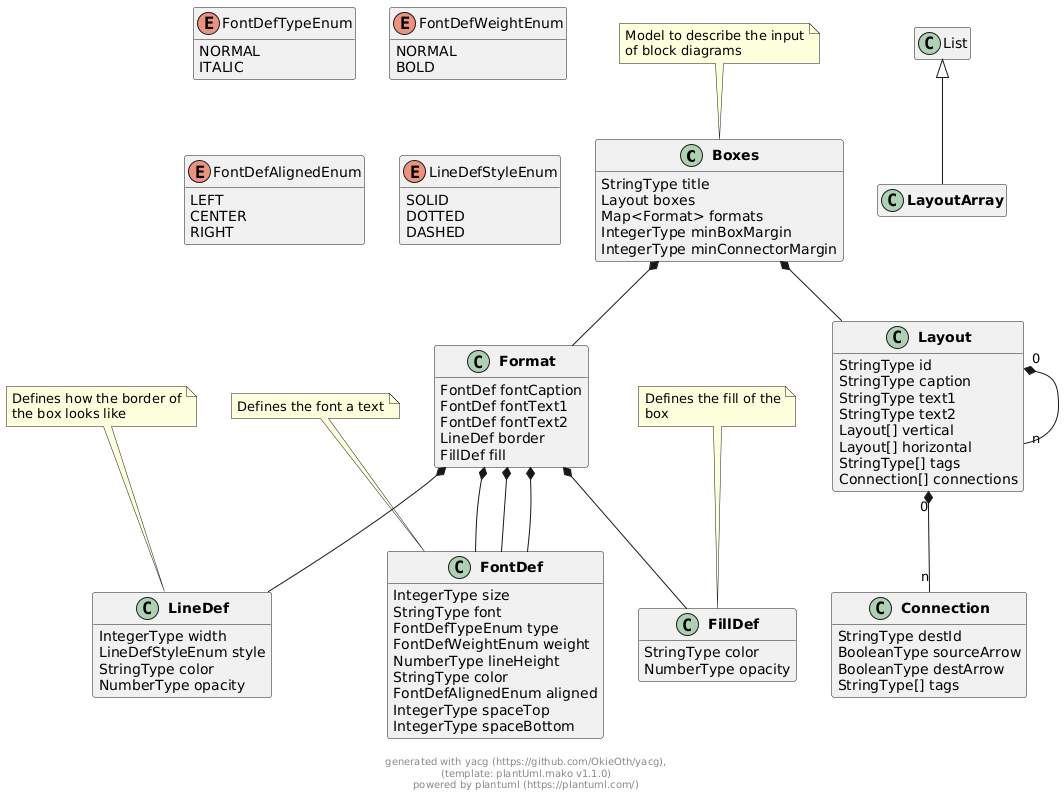
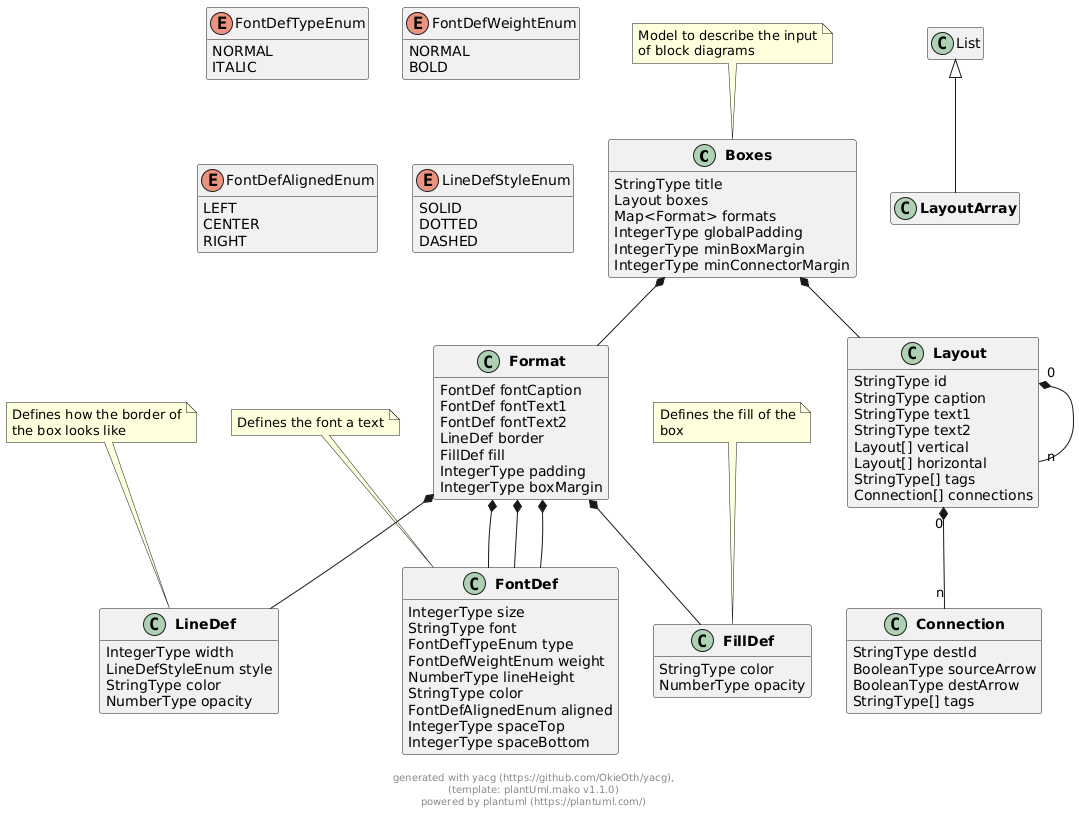
fix tests

diff --git a/pkg/types/boxesdocfactoryfuncs.go b/pkg/types/boxesdocfactoryfuncs.go
@@ -6,7 +6,7 @@ type TextDimensionCalculator interface {
 	Text2Dimensions(txt string) (width, height int)
 }
 
-func (l *LayoutElement) initVertical(c TextDimensionCalculator, yInnerOffset int) {
+func (l *LayoutElement) initVertical(c TextDimensionCalculator, yInnerOffset, defaultPadding, defaultBoxMargin int) {
 	if len(l.Vertical) > 0 {
 		curX := l.X
 		curY := l.Y + yInnerOffset
@@ -14,51 +14,51 @@ func (l *LayoutElement) initVertical(c TextDimensionCalculator, yInnerOffset int
 		for i := 0; i < len(l.Vertical); i++ {
 			sub := &l.Vertical[i]
 			if h > 0 {
-				h += GlobalMinBoxMargin
+				h += defaultBoxMargin
 			}
 			sub.X = curX
 			sub.Y = curY
-			sub.InitDimensions(c)
-			curY += (sub.Height + GlobalMinBoxMargin)
+			sub.InitDimensions(c, defaultPadding, defaultBoxMargin)
+			curY += (sub.Height + defaultBoxMargin)
 			h += sub.Height
 			if sub.Width > w {
 				w = sub.Width
 			}
 		}
-		l.Height += h + GlobalPadding
+		l.Height += h + defaultPadding
 		if w > l.Width {
 			l.Width = w
 		}
 	}
 }
 
-func (l *LayoutElement) initHorizontal(c TextDimensionCalculator, yInnerOffset int) {
+func (l *LayoutElement) initHorizontal(c TextDimensionCalculator, yInnerOffset, defaultPadding, defaultBoxMargin int) {
 	if len(l.Horizontal) > 0 {
-		curX := l.X + GlobalPadding
+		curX := l.X + defaultPadding
 		curY := l.Y + yInnerOffset
 		var h, w int
 		for i := 0; i < len(l.Horizontal); i++ {
 			sub := &l.Horizontal[i]
 			if w > 0 {
-				w += GlobalMinBoxMargin
+				w += defaultBoxMargin
 			}
 			sub.X = curX
 			sub.Y = curY
-			sub.InitDimensions(c)
-			curX += (sub.Width + GlobalMinBoxMargin)
+			sub.InitDimensions(c, defaultPadding, defaultBoxMargin)
+			curX += (sub.Width + defaultBoxMargin)
 			w += sub.Width
 			if sub.Height > h {
 				h = sub.Height
 			}
 		}
-		l.Height += h + GlobalPadding
+		l.Height += h + defaultPadding
 		if l.Width < w {
 			l.Width = w
 		}
 	}
 }
 
-func (l *LayoutElement) InitDimensions(c TextDimensionCalculator) {
+func (l *LayoutElement) InitDimensions(c TextDimensionCalculator, defaultPadding, defaultBoxMargin int) {
 	var cW, cH, t1W, t1H, t2W, t2H int
 	var yCaptionOffset, yText1Offset, yText2Offset, yInnerOffset int
 	if l.Caption != "" || l.Text1 != "" || l.Text2 != "" {
@@ -81,6 +81,6 @@ func (l *LayoutElement) InitDimensions(c TextDimensionCalculator) {
 		yInnerOffset = l.Format.Padding + max(yCaptionOffset, max(yText1Offset, yText2Offset))
 		l.Width = max(cW, max(t1W, t2W)) + (2 * l.Format.Padding)
 	}
-	l.initVertical(c, yInnerOffset)
-	l.initHorizontal(c, yInnerOffset)
+	l.initVertical(c, yInnerOffset, defaultPadding, defaultBoxMargin)
+	l.initHorizontal(c, yInnerOffset, defaultPadding, defaultBoxMargin)
 }

diff --git a/pkg/types/boxexdocfactory_test.go b/pkg/types/boxexdocfactory_test.go
@@ -7,33 +7,6 @@ import (
 )
 
 func TestInitLayoutElement(t *testing.T) {
-	bf := types.BoxFormat{
-		Padding: 5,
-		FontCaption: types.FontDef{
-			Size:       10,
-			Type:       &types.ExpFontDefTypeEnum_normal,
-			Weight:     &types.ExpFontDefWeightEnum_normal,
-			LineHeight: 1.5,
-			Color:      "black",
-			Aligned:    &types.ExpFontDefAlignedEnum_left,
-		},
-		FontText1: types.FontDef{
-			Size:       10,
-			Type:       &types.ExpFontDefTypeEnum_normal,
-			Weight:     &types.ExpFontDefWeightEnum_normal,
-			LineHeight: 1.5,
-			Color:      "black",
-			Aligned:    &types.ExpFontDefAlignedEnum_left,
-		},
-		FontText2: types.FontDef{
-			Size:       10,
-			Type:       &types.ExpFontDefTypeEnum_normal,
-			Weight:     &types.ExpFontDefWeightEnum_normal,
-			LineHeight: 1.5,
-			Color:      "black",
-			Aligned:    &types.ExpFontDefAlignedEnum_left,
-		},
-	}
 	bf2 := types.BoxFormat{
 		Padding: 0,
 		FontCaption: types.FontDef{
@@ -75,7 +48,7 @@ func TestInitLayoutElement(t *testing.T) {
 			inputFormats: map[string]types.BoxFormat{},
 			expected: types.LayoutElement{
 				Id:     "test1",
-				Format: &bf,
+				Format: nil,
 			},
 		},
 		{
@@ -123,6 +96,12 @@ func TestInitLayoutElement(t *testing.T) {
 			}
 			if result.Text2 != tt.expected.Text2 {
 				t.Errorf("expected Text2 %v, got %v", tt.expected.Text2, result.Text2)
+			}
+			if (result.Format == nil && tt.expected.Format != nil) || (result.Format != nil && tt.expected.Format == nil) {
+				t.Errorf("expected Format %v, got %v", tt.expected.Format, result.Format)
+			}
+			if result.Format == nil {
+				return
 			}
 			if result.Format.Padding != tt.expected.Format.Padding {
 				t.Errorf("expected Padding %v, got %v", tt.expected.Format.Padding, result.Format.Padding)

diff --git a/pkg/types/boxesdocfactory.go b/pkg/types/boxesdocfactory.go
@@ -1,6 +1,8 @@
 package types
 
-import "fmt"
+import (
+	"fmt"
+)
 
 type BoxesDrawing interface {
 	Start(title string, height, width int) error
@@ -73,17 +75,25 @@ func initBoxFormat(f *Format) BoxFormat {
 	var fontCaption *FontDef
 	var fontText1 *FontDef
 	var fontText2 *FontDef
+	padding := GlobalPadding
+	boxMargin := GlobalMinBoxMargin
 	if f != nil {
 		fontCaption = f.FontCaption
 		fontText1 = f.FontText1
 		fontText2 = f.FontText2
 		border = f.Border
 		fill = f.Fill
+		if f.Padding != nil {
+			padding = *f.Padding
+		}
+		if f.BoxMargin != nil {
+			boxMargin = *f.BoxMargin
+		}
 	}
 
 	return BoxFormat{
-		Padding:      GlobalPadding,
-		MinBoxMargin: GlobalMinBoxMargin,
+		Padding:      padding,
+		MinBoxMargin: boxMargin,
 		FontCaption:  initFontDef(fontCaption),
 		FontText1:    initFontDef(fontText1),
 		FontText2:    initFontDef(fontText2),
@@ -149,6 +159,15 @@ func DocumentFromBoxes(b *Boxes) *BoxesDocument {
 	doc.Title = b.Title
 	doc.Formats = initFormats(b.Formats)
 	doc.Boxes = initLayoutElement(&b.Boxes, doc.Formats)
+	if doc.MinBoxMargin == 0 {
+		doc.MinBoxMargin = GlobalMinBoxMargin
+	}
+	if doc.MinConnectorMargin == 0 {
+		doc.MinConnectorMargin = GlobalMinBoxMargin
+	}
+	if doc.GlobalPadding == 0 {
+		doc.GlobalPadding = GlobalPadding
+	}
 	return doc
 }
 

diff --git a/pkg/boxesimpl/boxesimpl.go b/pkg/boxesimpl/boxesimpl.go
@@ -29,16 +29,16 @@ func DrawBoxesFromFile(inputFile, outputFile string) error {
 
 func InitialLayoutBoxes(b *types.Boxes, c types.TextDimensionCalculator) (*types.BoxesDocument, error) {
 	doc := types.DocumentFromBoxes(b)
-	doc.Boxes.X = types.GlobalPadding
-	doc.Boxes.Y = types.GlobalPadding
-	doc.Boxes.InitDimensions(c)
-	doc.Width = doc.Boxes.Width + types.GlobalPadding*2
-	doc.Height = doc.Boxes.Height + types.GlobalPadding*2
+	doc.Boxes.X = doc.GlobalPadding
+	doc.Boxes.Y = doc.GlobalPadding
+	doc.Boxes.InitDimensions(c, doc.GlobalPadding, doc.MinBoxMargin)
+	doc.Width = doc.Boxes.Width + doc.GlobalPadding*2
+	doc.Height = doc.Boxes.Height + doc.GlobalPadding*2
 	if doc.Title != "" {
 		w, h := c.Text1Dimensions(doc.Title)
-		doc.Height += h + (2 * types.GlobalPadding)
+		doc.Height += h + (2 * doc.GlobalPadding)
 		if w > doc.Width {
-			doc.Width = w + (2 * types.GlobalPadding)
+			doc.Width = w + (2 * doc.GlobalPadding)
 		}
 	}
 	return doc, nil

diff --git a/pkg/types/boxes.go b/pkg/types/boxes.go
@@ -20,6 +20,9 @@ type Boxes struct {
     // Map of formats available to be used in the boxes
     Formats map[string]Format  `yaml:"formats,omitempty"`
 
+    // Padding used as default over the whole diagram
+    GlobalPadding *int  `yaml:"globalPadding,omitempty"`
+
     // Minimum margin between boxes
     MinBoxMargin *int  `yaml:"minBoxMargin,omitempty"`
 
@@ -90,6 +93,12 @@ type Format struct {
     Border *LineDef  `yaml:"border,omitempty"`
 
     Fill *FillDef  `yaml:"fill,omitempty"`
+
+    // Padding used for this format
+    Padding *int  `yaml:"padding,omitempty"`
+
+    // Minimum margin between boxes
+    BoxMargin *int  `yaml:"boxMargin,omitempty"`
 }
 
 

diff --git a/pkg/types/boxesdoc.go b/pkg/types/boxesdoc.go
@@ -25,6 +25,15 @@ type BoxesDocument struct {
 
     Connections []ConnectionElem  `yaml:"connections,omitempty"`
 
+    // Padding used as default over the whole diagram
+    GlobalPadding int  `yaml:"globalPadding"`
+
+    // Minimum margin between boxes
+    MinBoxMargin int  `yaml:"minBoxMargin"`
+
+    // Minimum margin between connectors
+    MinConnectorMargin int  `yaml:"minConnectorMargin"`
+
     // Map of formats available to be used in the boxes
     Formats map[string]BoxFormat  `yaml:"formats,omitempty"`
 }

diff --git a/pkg/types/boxesdocfactoryfuncs_test.go b/pkg/types/boxesdocfactoryfuncs_test.go
@@ -120,7 +120,7 @@ func TestInitDimensions(t *testing.T) {
 	emptyFormats := map[string]types.BoxFormat{}
 	for _, test := range tests {
 		le := types.ExpInitLayoutElement(&test.layout, emptyFormats)
-		le.InitDimensions(dc)
+		le.InitDimensions(dc, 5, 10)
 		assert.Equal(t, test.expectedHeight, le.Height)
 		assert.Equal(t, test.expectedWidth, le.Width)
 	}
